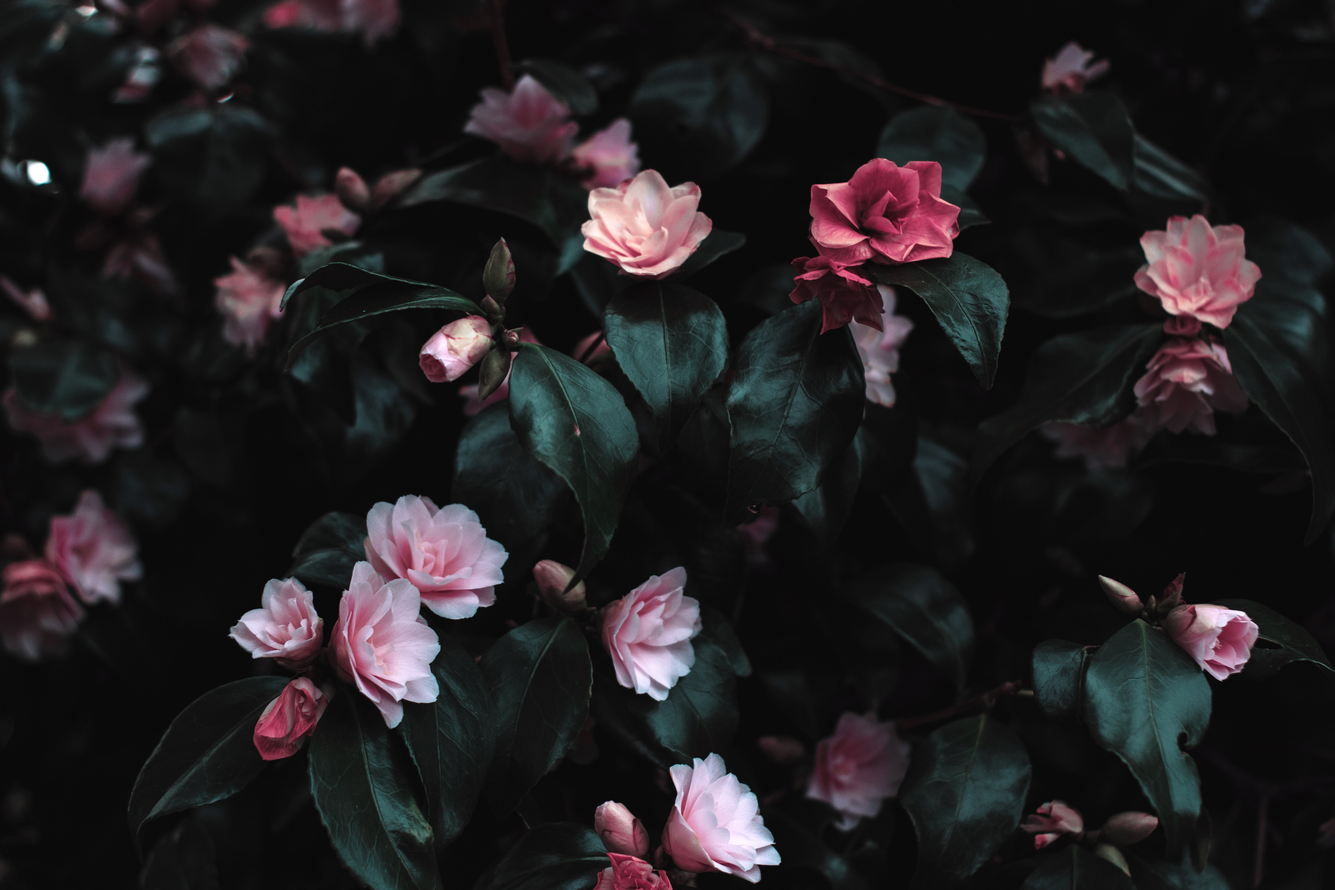
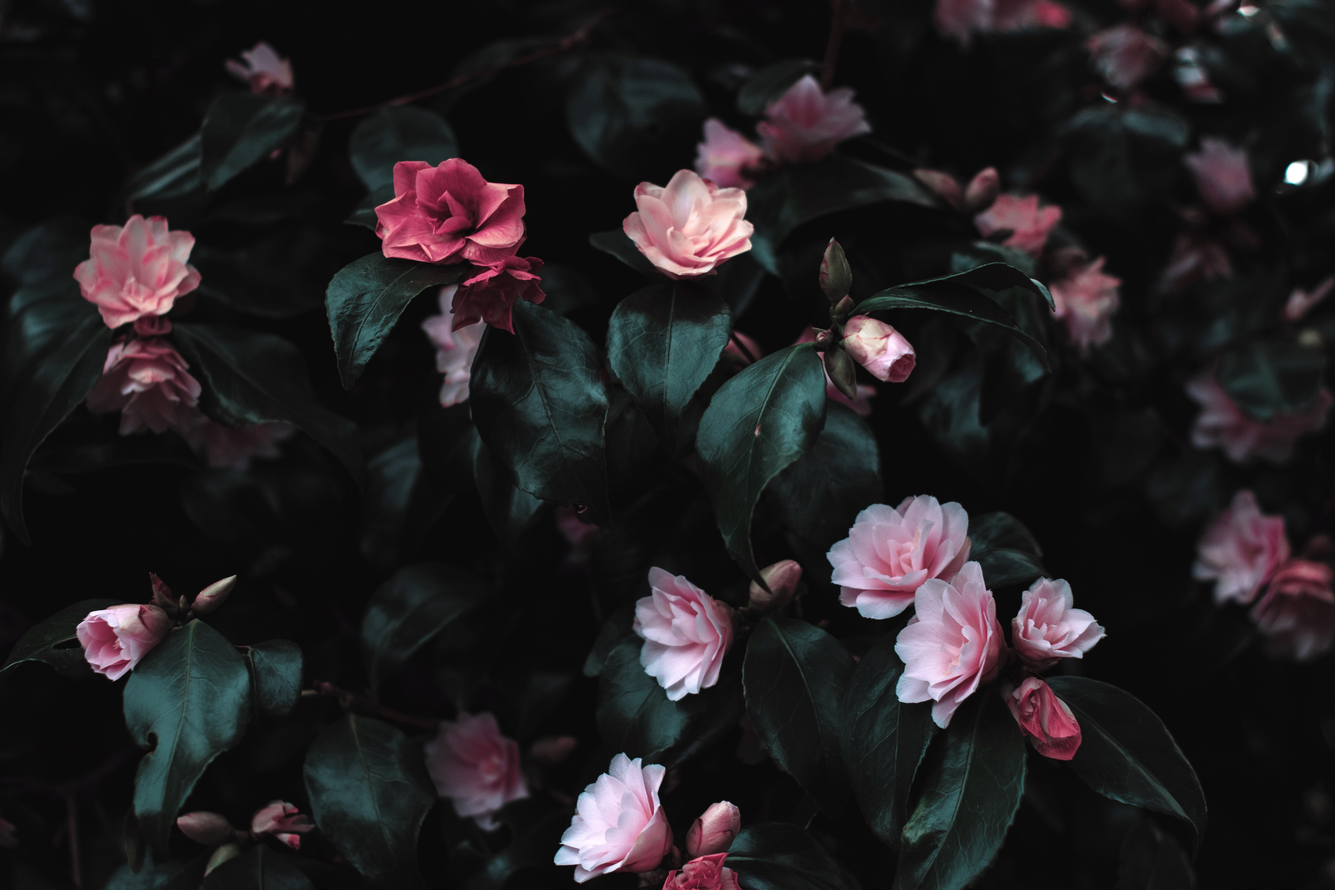
background image flip

diff --git a/stylesheet.css b/stylesheet.css
@@ -1,12 +1,14 @@
 body {
-  background-image: "flowers.jpg";
+  background-image: url("flowers.jpg");
+  background-repeat: no-repeat;
+  background-size: 100%;
 }
 
 h1 {
   text-align: center;
-  color: #342c2c;
+  color: #ffffff;
   font-family: 'Roboto', sans-serif;
-  font-size: 100px;
+  font-size: 110px;
 }
 
 a {
@@ -23,13 +25,13 @@ a:hover, a:focus {
 
 nav {
   margin-top: 100px;
-  margin-bottom: 100px;
+  margin-bottom: 200px;
   text-align: center;
   width: 100%;
 }
 
 nav a {
-  font-size: 18px;
+  font-size: 20px;
   font-weight: lighter;
   display: inline-block;
   margin-left: 50px;
